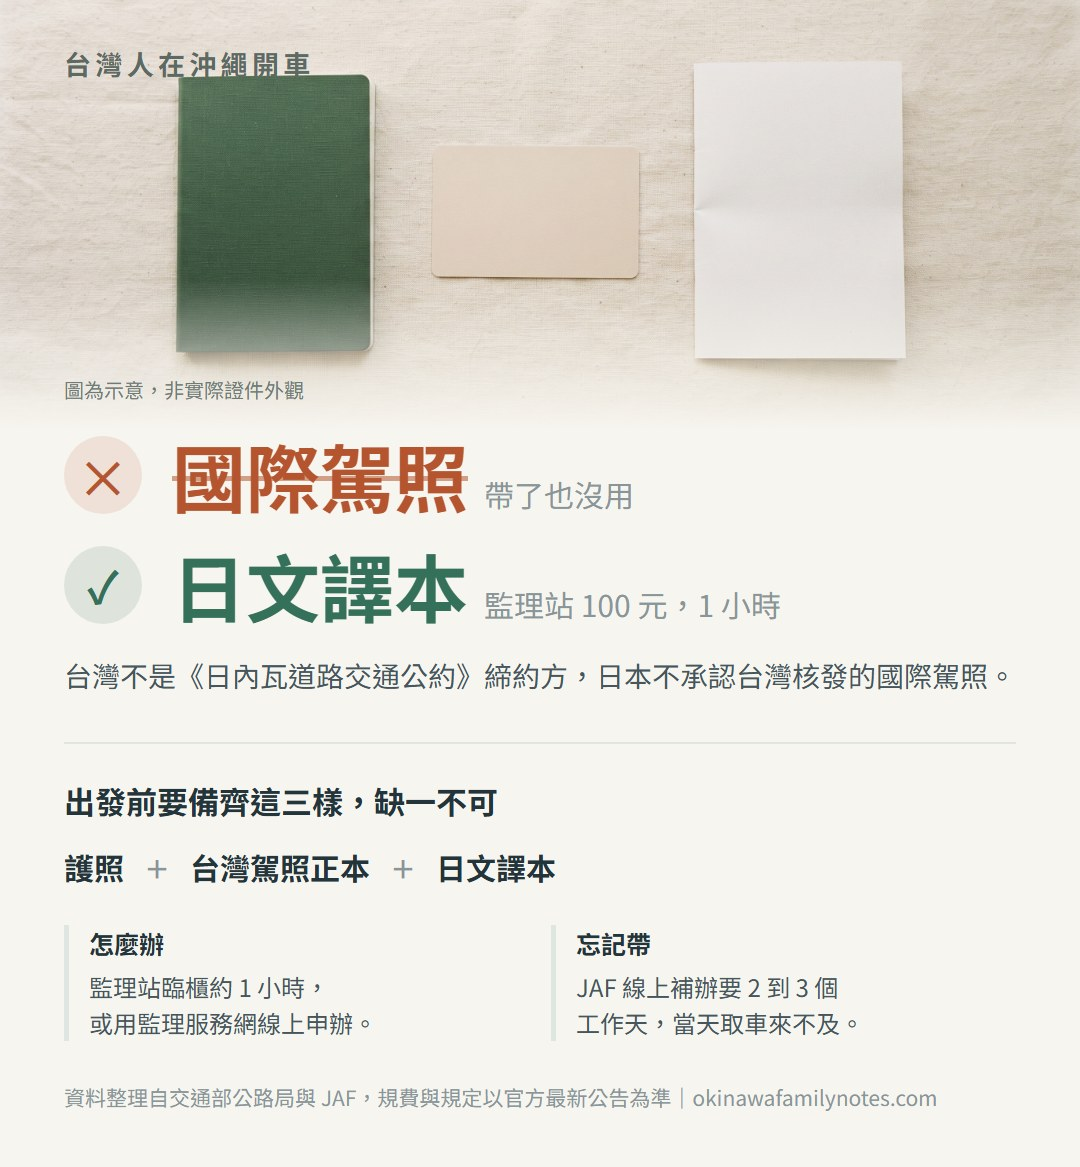
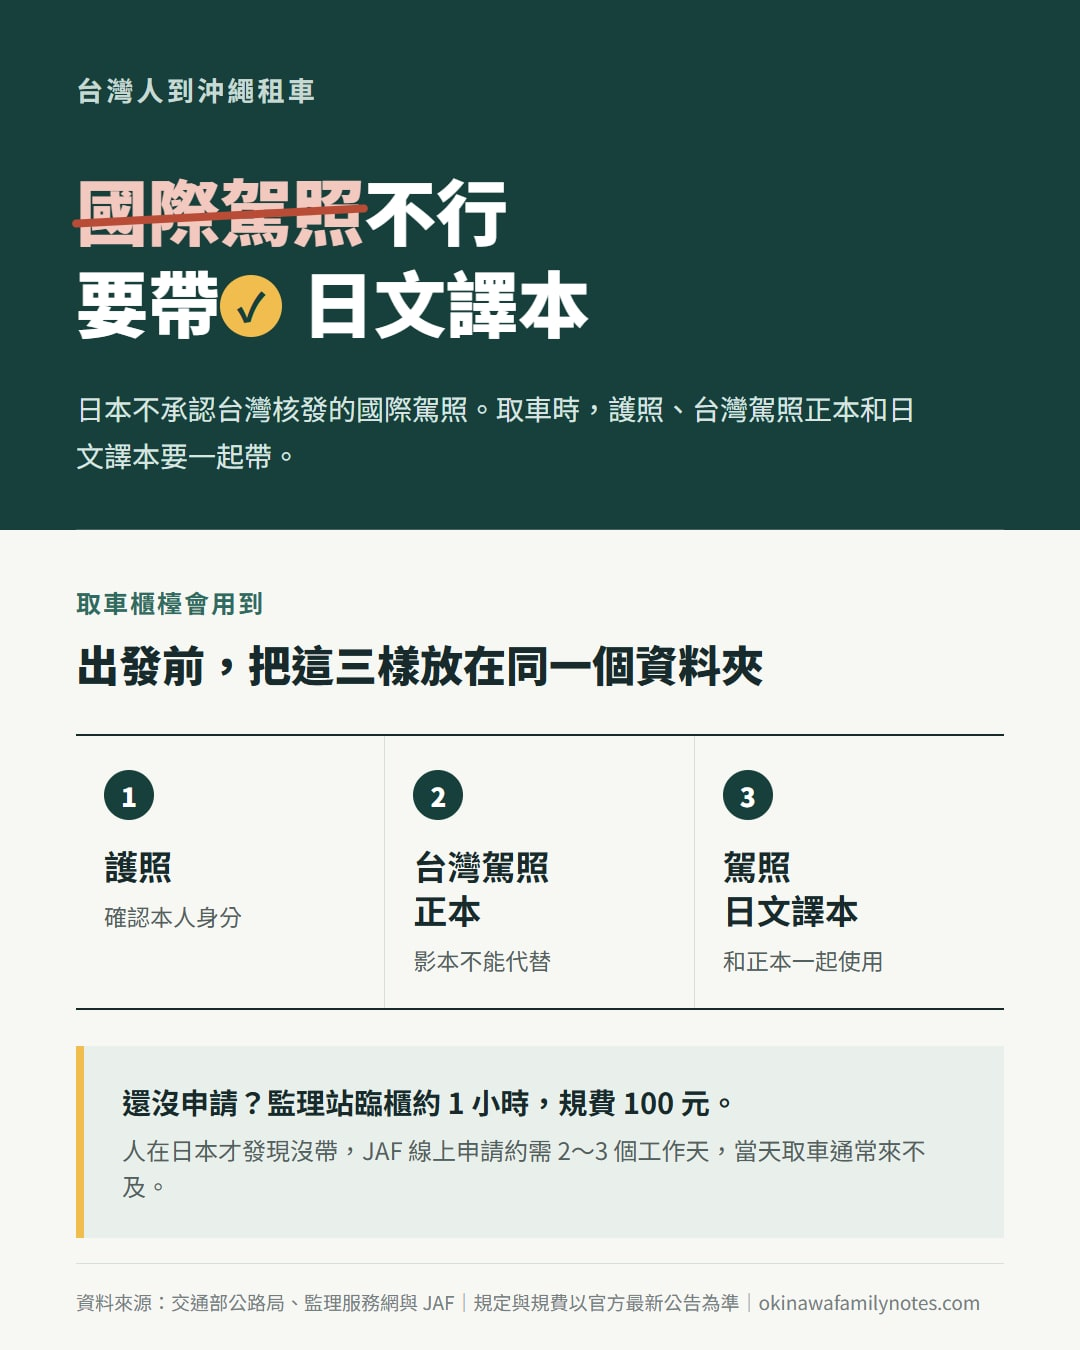
Redesign licence article infographic

diff --git a/work/infographics/license-docs.html b/work/infographics/license-docs.html
@@ -2,119 +2,258 @@
 <html lang="zh-Hant">
 <head>
 <meta charset="utf-8">
-<title>三樣證件資訊圖</title>
+<title>沖繩租車三樣證件</title>
 <style>
-  /* 設計原則：一張圖只講一件事。
-     主角是「國際駕照不能用，要的是日文譯本」這個反直覺的對比，
-     其餘資訊一律降級。強調色只給主角，不要每一區都上色。 */
-  :root{
-    --paper:#f7f5ef; --ink:#24343b; --body:#46565c; --mute:#8a9599;
-    --line:#dfe5e1;
-    --no:#b4552f; --yes:#35705a;
+  :root {
+    --forest: #173f3b;
+    --forest-soft: #2f6b60;
+    --paper: #f7f8f4;
+    --white: #ffffff;
+    --ink: #182a2b;
+    --body: #526060;
+    --line: #d7dfd9;
+    --red: #b84c37;
+    --yellow: #f0bd4e;
   }
-  *{box-sizing:border-box;margin:0;padding:0}
-  body{width:1080px;background:var(--paper);
-    font-family:"Noto Sans TC","Microsoft JhengHei","PingFang TC",sans-serif}
-  .sheet{width:1080px}
 
-  /* 照片帶 */
-  .band{position:relative;height:430px;overflow:hidden}
-  .band img{width:100%;height:100%;object-fit:cover;object-position:center 52%;display:block}
-  .band .fade{position:absolute;left:0;right:0;bottom:0;height:150px;
-    background:linear-gradient(180deg,rgba(247,245,239,0),var(--paper))}
-  .band .kicker{position:absolute;left:64px;top:44px;
-    font-size:27px;font-weight:700;color:#5c6a63;letter-spacing:.16em}
-  .band .note{position:absolute;left:64px;bottom:26px;
-    font-size:20px;color:#6f7b76}
+  * {
+    box-sizing: border-box;
+    margin: 0;
+    padding: 0;
+  }
 
-  .pad{padding:0 64px 52px}
+  body {
+    width: 1080px;
+    background: var(--paper);
+    color: var(--ink);
+    font-family: "Noto Sans TC", "Microsoft JhengHei", "PingFang TC", sans-serif;
+  }
 
-  /* 主角：✕ 對 ✓ */
-  .verdict{margin-top:4px}
-  .row{display:flex;align-items:center;gap:30px}
-  .mark{width:78px;height:78px;flex:none;border-radius:50%;
-    display:flex;align-items:center;justify-content:center;
-    font-size:44px;font-weight:700;line-height:1}
-  .mark.no{background:rgba(180,85,47,.12);color:var(--no)}
-  .mark.yes{background:rgba(53,112,90,.13);color:var(--yes)}
-  .word{font-size:74px;font-weight:700;line-height:1.1}
-  .word.no{color:var(--no);text-decoration:line-through;
-    text-decoration-thickness:5px;text-decoration-color:rgba(180,85,47,.55)}
-  .word.yes{color:var(--yes)}
-  .pair{display:flex;align-items:baseline;gap:16px}
-  .tail{font-size:30px;font-weight:400;color:var(--mute);text-decoration:none}
-  .gap{height:28px}
+  .sheet {
+    width: 1080px;
+    height: 1350px;
+    overflow: hidden;
+    background: var(--paper);
+  }
 
-  .why{margin-top:26px;font-size:28px;line-height:1.65;color:var(--body)}
+  .hero {
+    position: relative;
+    height: 530px;
+    padding: 70px 76px 64px;
+    color: var(--white);
+    background: var(--forest);
+  }
 
-  /* 次要：三樣 */
-  .hr{height:2px;background:var(--line);margin:44px 0 34px}
-  .lead{font-size:31px;font-weight:700;color:var(--ink)}
-  .three{display:flex;align-items:center;gap:20px;margin-top:22px;flex-wrap:nowrap}
-  .item{font-size:30px;font-weight:700;color:var(--ink);white-space:nowrap}
-  .op{font-size:26px;color:var(--mute);font-weight:700}
+  .hero::after {
+    content: "";
+    position: absolute;
+    left: 76px;
+    right: 76px;
+    bottom: 0;
+    height: 1px;
+    background: rgba(255, 255, 255, 0.2);
+  }
 
-  /* 最小級：兩則備註 */
-  .notes{margin-top:36px;display:grid;grid-template-columns:1fr 1fr;gap:22px}
-  .note-b{border-left:5px solid var(--line);padding-left:20px}
-  .note-b .t{font-size:25px;font-weight:700;color:var(--ink)}
-  .note-b .d{margin-top:8px;font-size:24px;line-height:1.5;color:var(--body)}
+  .kicker {
+    font-size: 27px;
+    font-weight: 700;
+    letter-spacing: 0.12em;
+    color: #c7d9d3;
+  }
 
-  .foot{margin-top:40px;font-size:21px;color:var(--mute);line-height:1.6}
+  .headline {
+    margin-top: 54px;
+    font-size: 72px;
+    font-weight: 800;
+    line-height: 1.28;
+  }
+
+  .wrong,
+  .right {
+    display: inline-block;
+    position: relative;
+  }
+
+  .wrong {
+    color: #f3c8bf;
+  }
+
+  .wrong::after {
+    content: "";
+    position: absolute;
+    left: -4px;
+    right: -4px;
+    top: 53%;
+    height: 8px;
+    border-radius: 6px;
+    background: var(--red);
+    transform: rotate(-3deg);
+  }
+
+  .right {
+    color: #ffffff;
+  }
+
+  .right::before {
+    content: "✓";
+    display: inline-flex;
+    width: 62px;
+    height: 62px;
+    margin-right: 20px;
+    align-items: center;
+    justify-content: center;
+    border-radius: 50%;
+    color: var(--forest);
+    background: var(--yellow);
+    font-size: 39px;
+    line-height: 1;
+    vertical-align: 10px;
+  }
+
+  .hero-note {
+    margin-top: 38px;
+    max-width: 860px;
+    color: #d8e5e0;
+    font-size: 28px;
+    line-height: 1.65;
+  }
+
+  .documents {
+    padding: 54px 76px 36px;
+  }
+
+  .section-label {
+    font-size: 25px;
+    font-weight: 700;
+    color: var(--forest-soft);
+    letter-spacing: 0.08em;
+  }
+
+  .section-title {
+    margin-top: 14px;
+    font-size: 43px;
+    font-weight: 800;
+    line-height: 1.35;
+  }
+
+  .document-list {
+    margin-top: 42px;
+    display: grid;
+    grid-template-columns: repeat(3, 1fr);
+    border-top: 2px solid var(--ink);
+    border-bottom: 2px solid var(--ink);
+  }
+
+  .document {
+    min-height: 235px;
+    padding: 34px 28px 30px;
+    border-right: 1px solid var(--line);
+  }
+
+  .document:last-child {
+    border-right: 0;
+  }
+
+  .number {
+    display: flex;
+    width: 50px;
+    height: 50px;
+    align-items: center;
+    justify-content: center;
+    border-radius: 50%;
+    background: var(--forest);
+    color: var(--white);
+    font-size: 26px;
+    font-weight: 800;
+  }
+
+  .document h2 {
+    margin-top: 24px;
+    font-size: 34px;
+    line-height: 1.3;
+  }
+
+  .document p {
+    margin-top: 12px;
+    color: var(--body);
+    font-size: 23px;
+    line-height: 1.45;
+  }
+
+  .reminder {
+    margin: 0 76px;
+    padding: 34px 38px;
+    border-left: 8px solid var(--yellow);
+    background: #e9f0eb;
+  }
+
+  .reminder strong {
+    display: block;
+    font-size: 29px;
+    line-height: 1.45;
+  }
+
+  .reminder p {
+    margin-top: 10px;
+    color: var(--body);
+    font-size: 24px;
+    line-height: 1.5;
+  }
+
+  .footer {
+    margin: 25px 76px 0;
+    padding-top: 24px;
+    border-top: 1px solid var(--line);
+    color: #73807d;
+    font-size: 19px;
+    line-height: 1.5;
+  }
 </style>
 </head>
 <body>
-<div class="sheet">
+<main class="sheet">
+  <section class="hero">
+    <p class="kicker">台灣人到沖繩租車</p>
+    <h1 class="headline">
+      <span class="wrong">國際駕照</span>不行<br>
+      要帶<span class="right">日文譯本</span>
+    </h1>
+    <p class="hero-note">
+      日本不承認台灣核發的國際駕照。取車時，護照、台灣駕照正本和日文譯本要一起帶。
+    </p>
+  </section>
 
-  <div class="band">
-    <img src="docs-row.jpg" alt="">
-    <div class="kicker">台灣人在沖繩開車</div>
-    <div class="fade"></div>
-    <div class="note">圖為示意，非實際證件外觀</div>
-  </div>
+  <section class="documents">
+    <p class="section-label">取車櫃檯會用到</p>
+    <h2 class="section-title">出發前，把這三樣放在同一個資料夾</h2>
 
-  <div class="pad">
-    <div class="verdict">
-      <div class="row">
-        <div class="mark no">✕</div>
-        <div class="pair"><span class="word no">國際駕照</span><span class="tail">帶了也沒用</span></div>
-      </div>
-      <div class="gap"></div>
-      <div class="row">
-        <div class="mark yes">✓</div>
-        <div class="pair"><span class="word yes">日文譯本</span><span class="tail">監理站 100 元，1 小時</span></div>
-      </div>
+    <div class="document-list">
+      <article class="document">
+        <span class="number">1</span>
+        <h2>護照</h2>
+        <p>確認本人身分</p>
+      </article>
+      <article class="document">
+        <span class="number">2</span>
+        <h2>台灣駕照<br>正本</h2>
+        <p>影本不能代替</p>
+      </article>
+      <article class="document">
+        <span class="number">3</span>
+        <h2>駕照<br>日文譯本</h2>
+        <p>和正本一起使用</p>
+      </article>
     </div>
+  </section>
 
-    <div class="why">台灣不是《日內瓦道路交通公約》締約方，日本不承認台灣核發的國際駕照。</div>
+  <aside class="reminder">
+    <strong>還沒申請？監理站臨櫃約 1 小時，規費 100 元。</strong>
+    <p>人在日本才發現沒帶，JAF 線上申請約需 2～3 個工作天，當天取車通常來不及。</p>
+  </aside>
 
-    <div class="hr"></div>
-
-    <div class="lead">出發前要備齊這三樣，缺一不可</div>
-    <div class="three">
-      <span class="item">護照</span>
-      <span class="op">＋</span>
-      <span class="item">台灣駕照正本</span>
-      <span class="op">＋</span>
-      <span class="item">日文譯本</span>
-    </div>
-
-    <div class="notes">
-      <div class="note-b">
-        <div class="t">怎麼辦</div>
-        <div class="d">監理站臨櫃約 1 小時，<br>或用監理服務網線上申辦。</div>
-      </div>
-      <div class="note-b">
-        <div class="t">忘記帶</div>
-        <div class="d">JAF 線上補辦要 2 到 3 個<br>工作天，當天取車來不及。</div>
-      </div>
-    </div>
-
-    <div class="foot">
-      資料整理自交通部公路局與 JAF，規費與規定以官方最新公告為準｜okinawafamilynotes.com
-    </div>
-  </div>
-
-</div>
+  <footer class="footer">
+    資料來源：交通部公路局、監理服務網與 JAF｜規定與規費以官方最新公告為準｜okinawafamilynotes.com
+  </footer>
+</main>
 </body>
 </html>